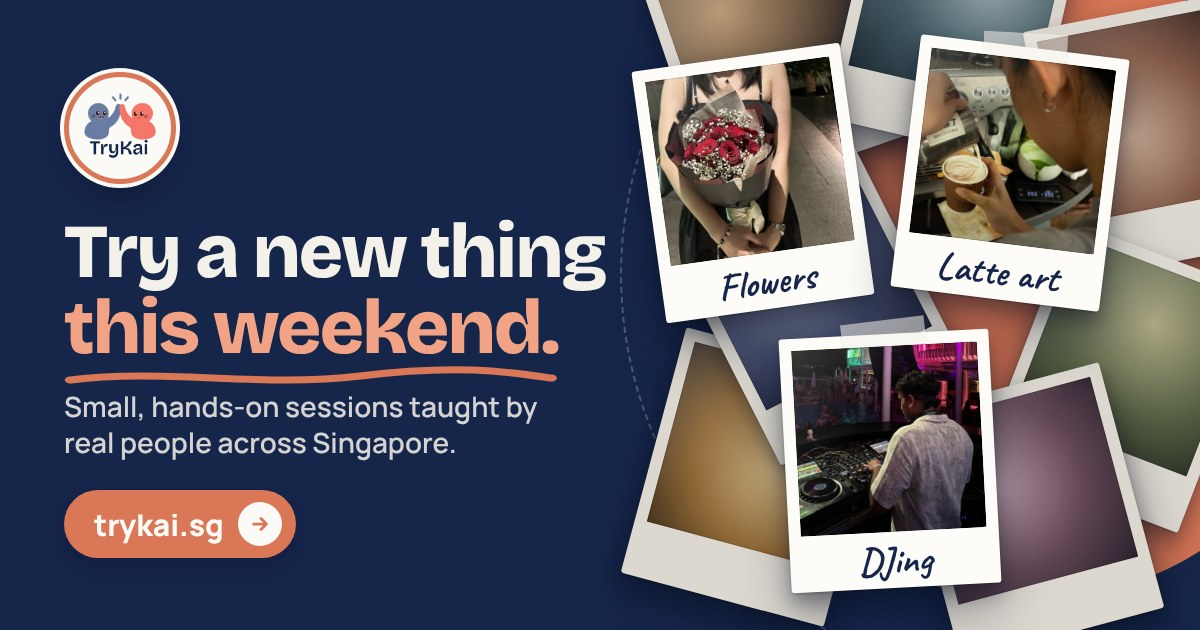
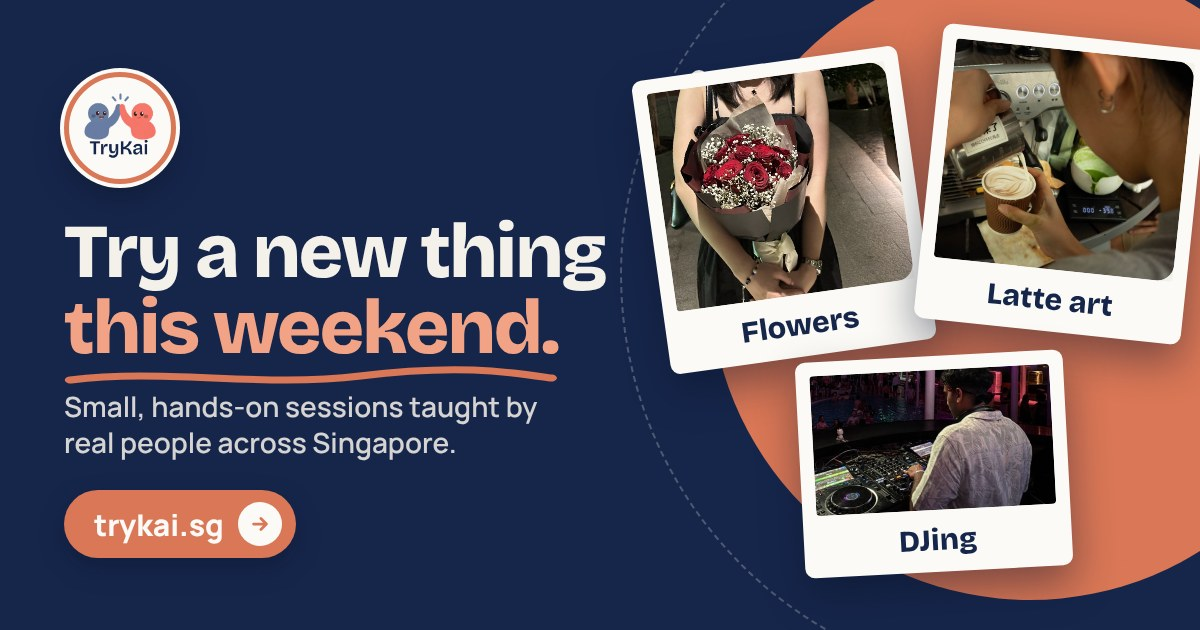
Link preview: back to three photo cards
Claude-Session: https://claude.ai/code/session_01VLGT7aQvMvkwe5qN89Z16G

diff --git a/Markdowns/DECISIONS.md b/Markdowns/DECISIONS.md
@@ -791,4 +791,4 @@ Live questions with work already done. Each needs a call.
 
 **2026-11-11: Home link preview shows the site, not the logo.** Sharing trykai.sg (Telegram, WhatsApp, X) used the 400 by 400 mascot as a small square thumbnail. It is now a 1200 by 630 image, `public/og-home.jpg`: the home headline beside two real listings (flower arrangement and latte art), with `summary_large_image`, so apps show a large preview. The image has no dates or prices, because both go stale (soft-launch prices change at hard launch). Listing pages keep their own cover photo preview (`api/listing-preview.js`). Swap the image when either listing leaves, or for a better pair; rename the file when you do, since Telegram and WhatsApp cache by URL.
 
-**2026-11-11: Link preview is an ad, not a screenshot.** The first version (headline beside two listing cards) had text too small to read on a phone. `public/og-home-2.jpg` is a navy and coral poster: "Try a new thing this weekend.", one line on what TryKai is, three polaroids (flowers, latte art, DJing) with handwritten labels on a scattered pile of more polaroids (blank colour, nothing recognisable), the full logo in a small round badge at the top left, and a coral trykai.sg button. Every word is large enough to read in a Telegram preview. Still no dates or prices.
+**2026-11-11: Link preview is an ad, not a screenshot.** The first version (headline beside two listing cards) had text too small to read on a phone. `public/og-home-2.jpg` is a navy and coral poster: "Try a new thing this weekend.", one line on what TryKai is, three photo cards (flowers, latte art, DJing) on a coral circle, the full logo in a small round badge at the top left, and a coral trykai.sg button. Every word is large enough to read in a Telegram preview. Still no dates or prices.
